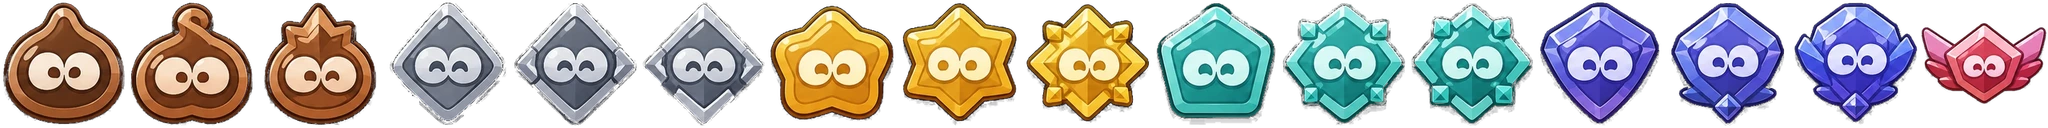
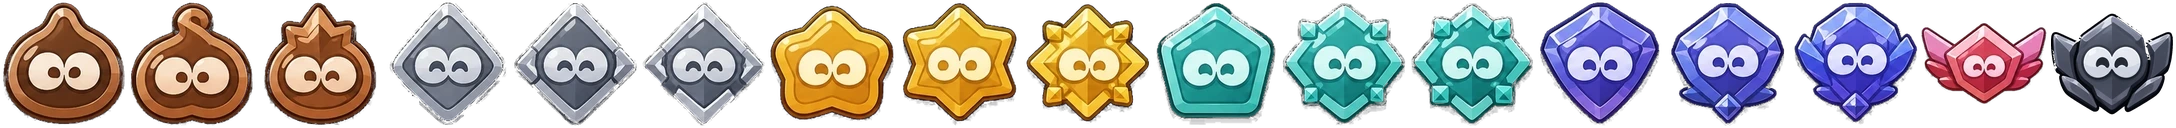
언랭(배치 중) 랭크 엠블럼을 새 그림으로
- tiers.webp 끝에 언랭 칸(17번째, 회색 돌 엠블럼)을 추가하고 배치 중에는 이 그림을 씀
- 예전 그림이 캐시에 남아 언랭 칸이 없으면 기존 도형으로 그림
- 티어·캐릭터 그림 주소에 ?v=2를 붙여 바뀐 그림을 바로 새로 받게 함

Claude-Session: https://claude.ai/code/session_019Xjvp4u9dAV9jMhR6BEbm5

diff --git a/public/js/ui.js b/public/js/ui.js
@@ -188,14 +188,14 @@ document.querySelectorAll('.tile[data-act]').forEach(t => {
 $('pName').addEventListener('change', () => { stats = loadStats(); stats.name = cleanName($('pName').value); $('pName').value = stats.name; saveStats(); });
 // 랭크 티어 엠블럼: 브론즈·실버·골드·플래티넘·다이아·마스터(-1은 배치 중). div: 세부 티어 1~3(별 개수)
 const TIER_COL = [['#c9834a', '#7a4618'], ['#c3ccd6', '#6d7a88'], ['#ffd23d', '#b07a00'], ['#4fe0c4', '#14806c'], ['#7cb8ff', '#2556b8'], ['#d58cff', '#6b2aa8']];
-// 티어 엠블럼 그림(img/tiers.webp): 브론즈 1·2·3 → … → 다이아 3, 마스터 순서로 한 줄(칸마다 128px). 불러오기 전·배치 중은 아래 도형으로
+// 티어 엠블럼 그림(img/tiers.webp): 브론즈 1·2·3 → … → 다이아 3, 마스터, 언랭(배치 중) 순서로 한 줄(칸마다 128px). 불러오기 전은 아래 도형으로
 const TIER_IMG = new Image(), TIER_CELL = 128;
 TIER_IMG.onload = () => { if (!window.gameReady) return;   // 아직 스크립트를 다 읽기 전이면 시작할 때 그림
   if (game.state === 'menu') drawArts(); if (typeof paintInfo === 'function' && !$('sc-stats').classList.contains('hidden')) paintInfo(); };
-TIER_IMG.src = 'img/tiers.webp';
+TIER_IMG.src = 'img/tiers.webp?v=2';   // 그림을 바꾸면 v를 올려 캐시를 새로 받게
 function drawTierEmblem(c, x, y, size, group, div) {
-  const i = group === 5 ? 15 : group >= 0 && group < 5 && div >= 1 && div <= 3 ? group * 3 + div - 1 : -1;
-  if (i >= 0 && TIER_IMG.complete && TIER_IMG.naturalWidth) {
+  const i = group === 5 ? 15 : group < 0 ? 16 : group >= 0 && group < 5 && div >= 1 && div <= 3 ? group * 3 + div - 1 : -1;
+  if (i >= 0 && TIER_IMG.complete && TIER_IMG.naturalWidth >= (i + 1) * TIER_CELL) {   // 예전 그림(언랭 칸 없음)이 캐시에 남았으면 도형으로
     const s = size * 1.1;                     // 그림 안 여백만큼 조금 크게
     c.drawImage(TIER_IMG, i * TIER_CELL, 0, TIER_CELL, TIER_CELL, x - s / 2, y - s / 2, s, s); return;
   }

diff --git a/public/js/chars.js b/public/js/chars.js
@@ -43,7 +43,7 @@ const CHAR_IMG = typeof Image === 'function' ? { card: new Image(), bust: new Im
 const CHAR_CELL = { card: [300, 354], bust: [160, 160], icon: [128, 128], vs: [240, 176] };
 if (CHAR_IMG) for (const k in CHAR_IMG) {
   CHAR_IMG[k].onload = () => { if (!window.gameReady) return; if (typeof dlgFace === 'function' && dlgOpen()) dlgFace(); if (game.state === 'menu') { drawArts(); if (cur === 'chars') renderChars(); if (cur === 'adv') renderAdv(); if (cur === 'stats' && typeof paintInfo === 'function') paintInfo(); } };
-  CHAR_IMG[k].src = `img/chars_${k}.webp`;
+  CHAR_IMG[k].src = `img/chars_${k}.webp?v=2`;   // 그림을 바꾸면 v를 올려 캐시를 새로 받게
 }
 const charImgOk = k => CHAR_IMG && CHAR_IMG[k].complete && CHAR_IMG[k].naturalWidth;
 // 그림 한 칸을 (x, y, w, h) 안에 비율 그대로(가운데)
